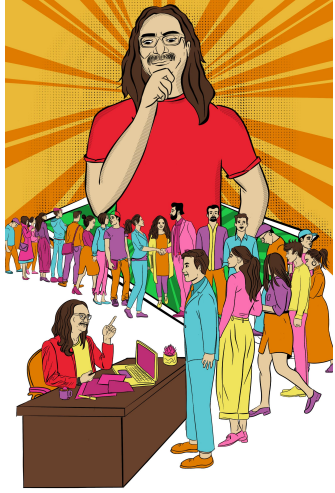
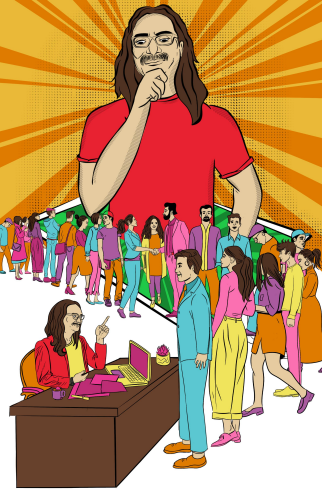
c

diff --git a/index.html b/index.html
@@ -110,7 +110,7 @@
             <div class="vertical-line"></div> 
 
             <div class="img-flex" data-aos="zoom-in">
-                <img src="static/Images/hire1.PNG" alt="">
+                <img src="static/Images/hire.PNG" alt="">
             </div>
         </div>
 
@@ -128,13 +128,15 @@
             </div>
         </div>
 
-        <div class="flex-box d-flex fbw mt-4 bridge">
+        <div class="flex-box d-flex fbw mt-5 last-flex">
             <div class="content-flex">
                 We also help them build a personal brand on LinkedIn as an additional asset that can help them get the best industry opportunities.
             </div>
-            <div class="vertical-line"></div> 
-            <div class="img-flex" data-aos="zoom-in">
-                <img src="static/Images/linkedin_grapg.png" alt="">
+            <!-- <div class="vertical-line"></div>  -->
+            <div class="more-work-btn mt-2">
+                <!-- <button onclick="show()">More Work</button> -->
+                <button type="button" class="btn btn-light p-2" onclick="show()" id="moreworkbtn">More Work</button>
+
             </div>
             
            
@@ -148,11 +150,6 @@
     </div>
     </div>
 
-    <div class="more-work-btn">
-        <!-- <button onclick="show()">More Work</button> -->
-        <button type="button" class="btn btn-light p-2" onclick="show()" id="moreworkbtn">More Work</button>
-    
-    </div>
 
     
 </section>
@@ -189,7 +186,7 @@
         </div>
 
         <div class="mentoon-toonland" data-aos="fade-left">
-            <img src="static/Images/tooland.png" alt="" height="170px">
+            <img src="static/Images/tooland.png" alt="" height="130px">
             <div class="content-men-toon">
             <h1>Toonland</h1>
             <p>Toonland, a fun, entertaining, learning platform designed specially for kids between the ages of 6 - 12 years! With amazing illustrated stories.</p>
@@ -336,8 +333,8 @@
             <h3 class="mb-3">Contact Me</h3>
 
             <div class="icon phone">
-                <i class="fa fa-phone"></i>
-                <h5>+91 9036033300</h5>
+                <i class="fa fa-whatsapp"></i>
+                <h5><a href="https://api.whatsapp.com/send?phone=919036033300">Whatsapp Me</a></h5>
             </div>
 
             <div class="icon email2">
@@ -412,7 +409,7 @@
                 <div>
                     <a href="https://www.facebook.com/mentor.mahesh" target="_blank" class="fb-a"><img src="static/Images/fb2.png" alt="" class="fb-img"></a>
                     <a href="https://www.instagram.com/mentormahesh/"  target="_blank"><img src="static/Images/insta.png" alt=""></a>
-                    <a href="https://api.whatsapp.com/send?phone=918310728642" target="_blank"><img src="static/Images/wtsp.png" alt="" ></a>
+                    <a href="https://api.whatsapp.com/send?phone=919036033300" target="_blank"><img src="static/Images/wtsp.png" alt="" ></a>
                     <a href="https://www.linkedin.com/in/metalmahesh/" target="_blank" ><img src="static/Images/in.png" alt=""></a>
                 </div>
                 <h6> Brand powered by Propelling Stories</h6> </div>

diff --git a/static/style.css b/static/style.css
@@ -389,7 +389,7 @@ position: relative;
 }
 
 .mentoon-toonland{
-    padding-top: 30px;
+    /* padding-top: 30px; */
     /* background-color: #cc9d90cd; */
     background-color: rgb(255, 255, 255);
     margin: 20px 30px;
@@ -1256,3 +1256,27 @@ body{
   }
   
 }
+
+
+.last-flex{
+  justify-content: center;
+  margin-top: 20px;
+
+}
+
+.last-flex div{
+  margin-right: 60px;
+}
+
+@media screen and (max-width:722px) {
+  .last-flex div{
+    margin-right: 0px;
+  }
+  
+}
+
+.phone a{
+  text-decoration: none;
+  color: #000;
+}
+

diff --git a/static/script.js b/static/script.js
@@ -53,7 +53,7 @@ function show() {
   } else {
     element1.style.display = "none";
     element2.style.display = "none";
-    moreworkbtn.innerText = "Explore";
+    moreworkbtn.innerText = "More Work";
   }
 }
 
